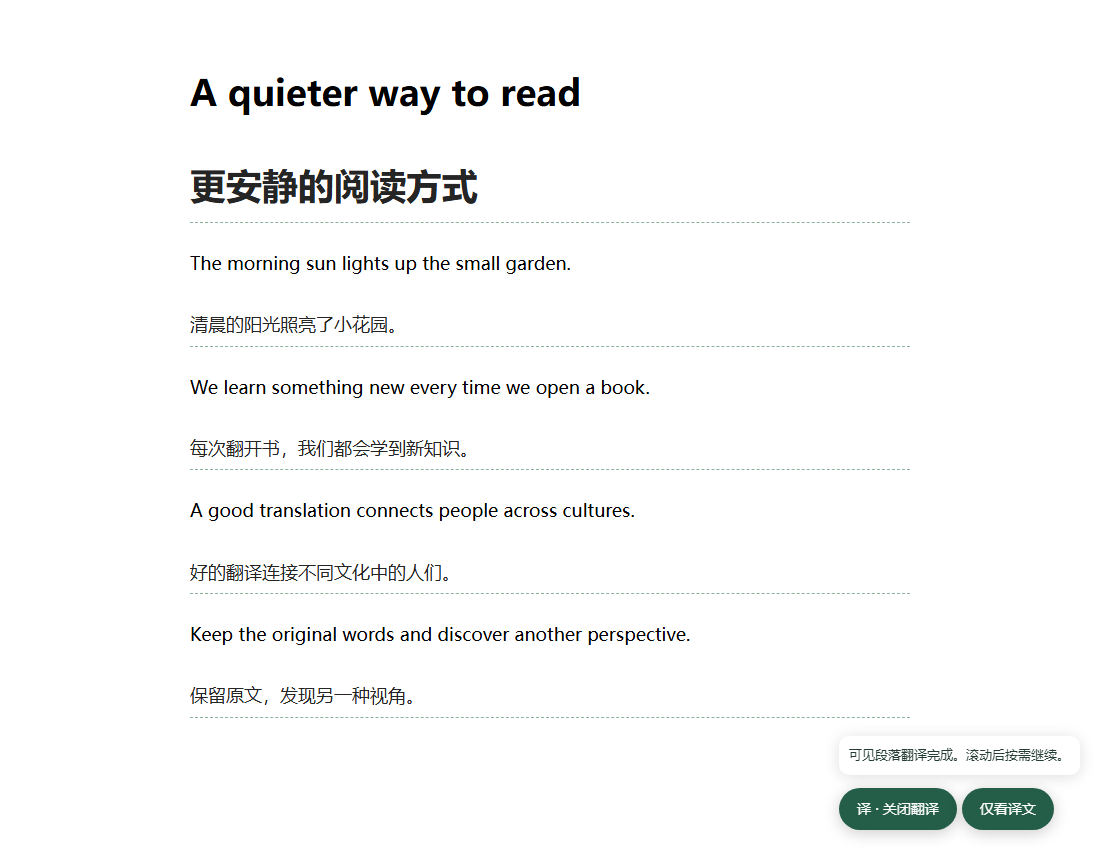
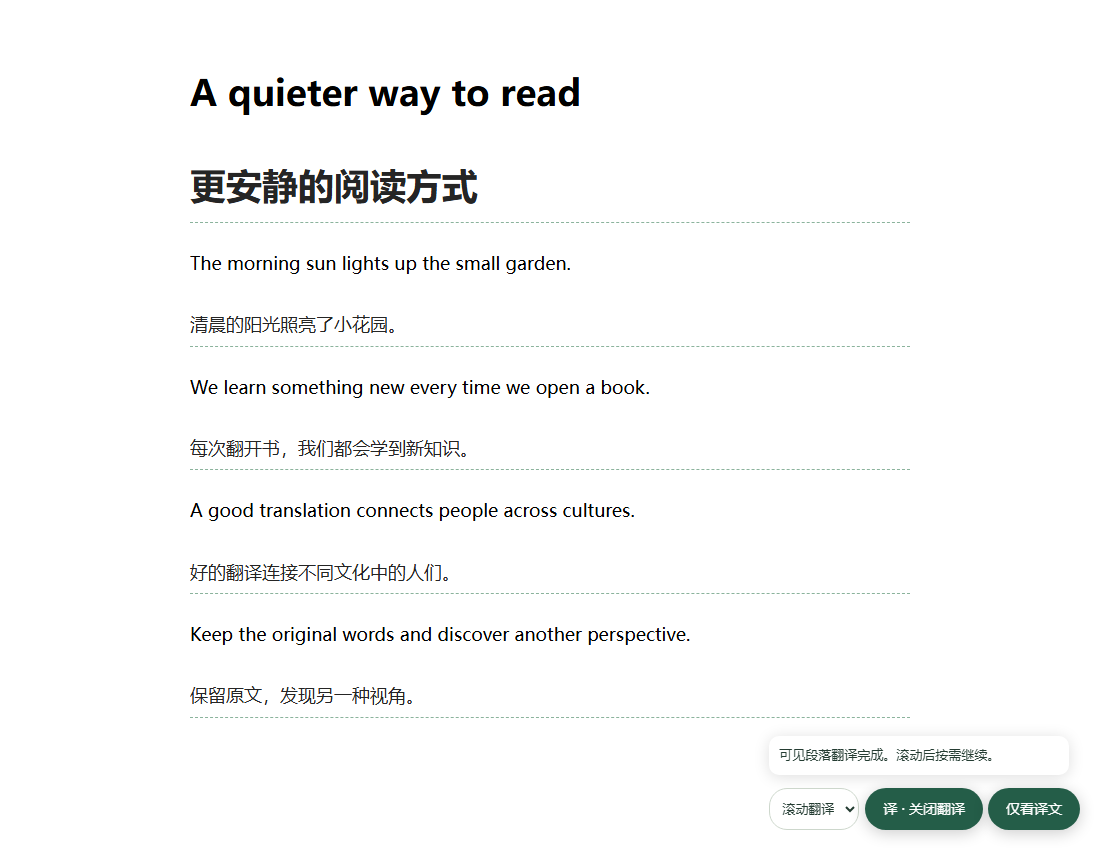
feat: choose scrolling or whole-page translation in v0.2.2

Changed region(s): [[0.7109, 0.8565, 0.9891, 0.9788]]

diff --git a/tests/text.test.ts b/tests/text.test.ts
@@ -4,7 +4,7 @@ import { candidates, chunks, TextTranslator } from '../lib/text-dom';
 import { translateText } from '../lib/text-api';
 import { hideOriginal } from '../lib/text-view';
 const settings={baseUrl:'https://openrouter.ai/api/v1',apiKey:'mock-key',targetLang:'简体中文',textModel:'test',visionModel:'test'};
-afterEach(()=>{vi.useRealTimers();vi.unstubAllGlobals();document.body.innerHTML='';});
+afterEach(()=>{vi.useRealTimers();vi.unstubAllGlobals();vi.restoreAllMocks();document.body.innerHTML='';});
 it('batches paragraphs into the chat completions route, deduplicates and caches',async()=>{
   const fetch=vi.fn().mockImplementation(async (_url,init)=>{
     const body=JSON.parse(init.body); const input=JSON.parse(body.messages[1].content);
@@ -45,6 +45,31 @@ it('restores list/table text nodes and event handlers after translated-only mode
   const t=document.createElement('div');t.textContent='译文';li.append(t);const reset=hideOriginal(li,t);
   expect(link.style.display).toBe('none');expect(t.style.display).toBe('');expect(li.querySelector('[data-bl-owned=source-wrapper]')).not.toBeNull();
   reset();expect(li.firstChild!.textContent).toBe('Original ');expect(link.style.display).toBe('');link.click();expect(clicked).toHaveBeenCalledTimes(1);
+});
+it('translates all loaded paragraphs without intersection events, in bounded sequential batches',async()=>{
+  vi.useFakeTimers();
+  document.body.innerHTML=Array.from({length:13},(_,i)=>`<p>Paragraph number ${i}.</p>`).join('')+'<p hidden>Do not send hidden text</p><p style="display:none">CSS hidden</p><pre><p>Do not send code</p></pre>';
+  vi.stubGlobal('IntersectionObserver',class{observe(){}unobserve(){}disconnect(){}});
+  vi.spyOn(HTMLElement.prototype,'getClientRects').mockImplementation(function(this:HTMLElement){return(this.style.display==='none'?[]:[{}]) as unknown as DOMRectList;});
+  const send=vi.fn(async(items)=>items.map((i:any)=>({id:i.id,translated:'译文：'+i.text}))),report=vi.fn();
+  const controller=new TextTranslator(send,report);controller.setScope('page');controller.start();
+  await vi.advanceTimersByTimeAsync(1200);
+  expect(send.mock.calls.map(c=>c[0].length)).toEqual([6,6,1]);expect(document.querySelectorAll('.bl-translation')).toHaveLength(13);
+  expect(report).toHaveBeenCalledWith('当前已加载页面翻译完成。');controller.stop();
+});
+it('changes scope without retranslating completed paragraphs and handles newly loaded content',async()=>{
+  vi.useFakeTimers();document.body.innerHTML='<p>First paragraph</p><p>Below the viewport</p>';
+  let intersect:IntersectionObserverCallback;
+  vi.stubGlobal('IntersectionObserver',class{constructor(cb:IntersectionObserverCallback){intersect=cb}observe(){}unobserve(){}disconnect(){}});
+  vi.spyOn(HTMLElement.prototype,'getClientRects').mockReturnValue([{}] as unknown as DOMRectList);
+  const send=vi.fn(async(items)=>items.map((i:any)=>({id:i.id,translated:'译文：'+i.text})));
+  const controller=new TextTranslator(send,()=>{});controller.start();
+  intersect!([{target:document.querySelector('p'),isIntersecting:true}] as unknown as IntersectionObserverEntry[],{} as IntersectionObserver);
+  await vi.advanceTimersByTimeAsync(300);expect(document.querySelectorAll('.bl-translation')).toHaveLength(1);
+  controller.setScope('page');await vi.advanceTimersByTimeAsync(300);expect(document.querySelectorAll('.bl-translation')).toHaveLength(2);expect(send.mock.calls[1]![0]).toEqual([{id:'0',text:'Below the viewport'}]);
+  controller.setScope('viewport');const p=document.createElement('p');p.textContent='New offscreen paragraph';document.body.append(p);
+  await vi.advanceTimersByTimeAsync(900);expect(send).toHaveBeenCalledTimes(2);
+  controller.setScope('page');await vi.advanceTimersByTimeAsync(300);expect(send).toHaveBeenCalledTimes(3);expect(document.querySelectorAll('.bl-translation')).toHaveLength(3);controller.stop();
 });
 it('rejects mismatched model IDs and does not inject model HTML',async()=>{
   vi.stubGlobal('fetch',vi.fn().mockResolvedValue({ok:true,json:async()=>({choices:[{message:{content:'[{"id":"wrong","translated":"bad"}]'}}]})}));

diff --git a/entrypoints/content.ts b/entrypoints/content.ts
@@ -3,6 +3,7 @@ import { TextTranslator } from '../lib/text-dom';
 import { installImageUI } from '../lib/image-dom';
 import type { BackgroundRequest, ApiReply } from '../lib/messages';
 import type { Bubble, Snippet } from '../lib/image-api';
+import { validTextScope, type TextScope } from '../lib/text-scope';
 import '../lib/content.css';
 export default defineContentScript({
   matches: ['http://*/*','https://*/*'], runAt:'document_idle',
@@ -24,15 +25,26 @@ export default defineContentScript({
       const result=await browser.runtime.sendMessage({type:'translateText',items});
       if (!result.ok) throw new Error(result.error); return result.data;
     },message=>{showStatus(message); button.textContent=translator.enabled?'译 · 关闭翻译':'译 · 开启翻译';mode.hidden=!translator.enabled;mode.textContent=translator.onlyTranslated?'显示双语':'仅看译文';});
-    button.addEventListener('click',()=>translator.toggle());
+    const scopeSelect=document.createElement('select');
+    scopeSelect.id='text-scope';scopeSelect.setAttribute('aria-label','网页翻译范围');
+    scopeSelect.innerHTML='<option value="viewport">滚动翻译</option><option value="page">整页翻译</option>';
+    scopeSelect.style.cssText='font:13px system-ui;padding:11px 8px;margin-right:6px;border:1px solid #cdd7cc;border-radius:18px;background:white;color:#243c32;cursor:pointer';
+    root.insertBefore(scopeSelect,button);
     mode.addEventListener('click',()=>translator.toggleMode());
     const send=async<T>(message:BackgroundRequest):Promise<T>=>{const reply:ApiReply<T>=await browser.runtime.sendMessage(message);if(!reply.ok)throw new Error(reply.error);return reply.data;};
+    const applyScope=(scope:TextScope)=>{translator.setScope(scope);scopeSelect.value=scope;};
+    scopeSelect.disabled=true;
+    const scopeReady=send<TextScope>({type:'getTextScope'}).then(applyScope).catch(e=>showStatus(e.message)).finally(()=>{scopeSelect.disabled=false;});
+    button.addEventListener('click',()=>{void scopeReady.then(()=>translator.toggle());});
+    scopeSelect.addEventListener('change',async()=>{
+      try {const scope=scopeSelect.value as TextScope;await send({type:'setTextScope',scope});applyScope(scope);}catch(e){scopeSelect.value=translator.scope;showStatus(e instanceof Error?e.message:'翻译范围保存失败。');}
+    });
     const images=installImageUI({
       fetchImage:(url,layout)=>send<string>({type:'fetchImage',url,layout}),
       full:dataUrl=>send<Bubble[]>({type:'translateImage',dataUrl}),
       snippet:dataUrl=>send<Snippet>({type:'translateSnippet',dataUrl})
     },showStatus);
-    const listener=(message: {type:string;url?:string})=>{if(message.type==='toggle') translator.toggle();if(message.type==='textMode')translator.toggleMode();if(message.type==='contextImage')images.contextTranslate(message.url); if(message.type==='settingsChanged') {translator.stop();images.reset(); showStatus('设置已更新，请重新开启翻译。'); button.textContent='译 · 开启翻译';mode.hidden=true;}};
+    const listener=(message: {type:string;url?:string;scope?:unknown})=>{if(message.type==='toggle') void scopeReady.then(()=>translator.toggle());if(message.type==='textScopeChanged'&&validTextScope(message.scope))applyScope(message.scope);if(message.type==='textMode')translator.toggleMode();if(message.type==='contextImage')images.contextTranslate(message.url); if(message.type==='settingsChanged') {translator.stop();images.reset(); showStatus('设置已更新，请重新开启翻译。'); button.textContent='译 · 开启翻译';mode.hidden=true;}};
     browser.runtime.onMessage.addListener(listener);
     ctx.onInvalidated(()=>{translator.stop();images.destroy();clearTimeout(statusTimer);host.remove();browser.runtime.onMessage.removeListener(listener);});
   }

diff --git a/lib/text-dom.ts b/lib/text-dom.ts
@@ -1,5 +1,6 @@
 import type { TextItem, TextResult } from './text-api';
 import { hideOriginal } from './text-view';
+import type { TextScope } from './text-scope';
 const SELECTOR = 'p,h1,h2,h3,h4,h5,h6,li,blockquote,figcaption,td,th,article';
 const EXCLUDE = '[data-bl-owned],script,style,noscript,pre,code,textarea,input,select,button,nav,header,footer,[contenteditable]:not([contenteditable="false"]),[translate="no"],[aria-hidden="true"],[hidden]';
 export function textOf(element: HTMLElement): string { return element.textContent?.replace(/\s+/g,' ').trim() ?? ''; }
@@ -28,6 +29,7 @@ interface RecordState { source: string; parts: string[]; translated: (string | u
 export class TextTranslator {
   enabled = false;
   onlyTranslated = false;
+  scope: TextScope = 'viewport';
   private records = new Map<HTMLElement,RecordState>();
   private visible = new Set<HTMLElement>();
   private timer?: ReturnType<typeof setTimeout>;
@@ -47,7 +49,7 @@ export class TextTranslator {
     });
   }
   start() {
-    if (this.enabled) return; this.enabled=true; this.epoch++; this.report('双语翻译已开启，只发送可见段落。');
+    if (this.enabled) return; this.enabled=true; this.epoch++; this.report(this.scope==='page'?'整页翻译已开启，将分批处理当前已加载的段落。':'滚动翻译已开启，只发送可见段落。');
     this.scan(); this.mutations.observe(document.body,{childList:true,subtree:true,characterData:true});
   }
   stop() {
@@ -56,6 +58,11 @@ export class TextTranslator {
     for (const state of this.records.values()) {state.restore?.();state.node?.remove();} this.records.clear();this.onlyTranslated=false;
   }
   toggle() { if (this.enabled) { this.stop(); this.report('双语翻译已关闭。'); } else this.start(); }
+  setScope(scope: TextScope) {
+    if (this.scope===scope) return;
+    this.scope=scope;
+    if(this.enabled){this.report(scope==='page'?'已切换整页翻译，将继续分批处理剩余段落。':'已切换滚动翻译，后续只处理可见段落。');this.schedule();}
+  }
   toggleMode(){
     if(!this.enabled)return;
     this.onlyTranslated=!this.onlyTranslated;
@@ -80,7 +87,7 @@ export class TextTranslator {
   private async flush() {
     if (!this.enabled || this.busy) return;
     const work: { el:HTMLElement; state:RecordState; part:number; id:string; text:string }[]=[]; let size=0;
-    for (const el of this.visible) {
+    for (const el of this.scope==='page'?this.records.keys():this.visible) {
       const state=this.records.get(el); if (!state || !el.isConnected || getComputedStyle(el).visibility==='hidden' || el.getClientRects().length===0) continue;
       for (let part=0;part<state.parts.length;part++) {
         const text=state.parts[part]!;
@@ -101,7 +108,10 @@ export class TextTranslator {
         w.state.translated[w.part]=translated;
         if (w.state.parts.every((_,i)=>w.state.translated[i]!==undefined)) {w.state.node=renderTranslation(w.el,w.state.translated.join(' '));if(this.onlyTranslated)w.state.restore=hideOriginal(w.el,w.state.node);}
       }
-      this.report('可见段落翻译完成。滚动后按需继续。');
+      if(this.scope==='page'){
+        const pending=[...this.records].some(([el,state])=>!state.node&&el.isConnected&&getComputedStyle(el).visibility!=='hidden'&&el.getClientRects().length>0);
+        this.report(pending?'本批段落已完成，整页翻译继续处理中。':'当前已加载页面翻译完成。');
+      }else this.report('可见段落翻译完成。滚动后按需继续。');
     } catch (e) {
       if (epoch===this.epoch) { this.stop(); this.report(e instanceof Error?e.message:'翻译失败，请重试。'); }
     } finally { this.busy=false; work.forEach(w=>w.state.inflight.delete(w.part)); this.schedule(); }

diff --git a/lib/settings-ui.ts b/lib/settings-ui.ts
@@ -1,20 +1,28 @@
 import { browser } from 'wxt/browser';
 import { getSettings, saveSettings, type Settings } from './settings';
+import { getTextScope, saveTextScope } from './text-scope';
 import './ui.css';
 export async function mountSettings(popup = false) {
   const app = document.querySelector<HTMLElement>('#app')!;
   app.innerHTML = `<header><span class="mark">译</span><div><h1>双语轻译</h1><p>原文在上，理解在旁。</p></div></header>
     ${popup ? '<button id="toggle" class="primary" type="button">切换当前网页翻译 · Alt+Shift+T</button>' : ''}
+    <label>网页翻译范围（自动保存）<select id="text-scope" disabled><option value="viewport">滚动翻译 · 只翻译可见段落</option><option value="page">整页翻译 · 分批翻译所有段落</option></select></label>
+    <p>整页模式处理当前已加载的正文，无需滚动，可能增加用量。</p>
     <form><label>API Endpoint<input name="baseUrl" type="url" required></label>
     <label>API Key<input name="apiKey" type="password" autocomplete="off" placeholder="仅保存在本机"></label>
     <label>目标语言<select name="targetLang"><option>简体中文</option><option>繁體中文</option><option>English</option><option>日本語</option><option>한국어</option><option>Français</option><option>Deutsch</option><option>Español</option></select></label>
     <label>文本模型<input name="textModel" list="text-models" required></label><datalist id="text-models"></datalist>
     <label>图片 / 漫画模型<input name="visionModel" list="image-models" required></label><datalist id="image-models"></datalist>
     <div class="actions"><button class="primary" type="submit">保存设置</button><button id="models" type="button">连接并查询模型</button></div></form>
-    <p id="status" role="status" aria-live="polite"></p><footer>只翻译可见段落；图片需手动点击。内容会发送至您设置的 API。密钥保存在本机，不同步。每次调用可能计费。</footer>`;
+    <p id="status" role="status" aria-live="polite"></p><footer>按所选范围翻译网页；图片需手动点击。内容会发送至您设置的 API。密钥保存在本机，不同步。每次调用可能计费。</footer>`;
   const form = app.querySelector('form')!;
   const status = app.querySelector<HTMLElement>('#status')!;
   const report = (e: unknown) => { status.textContent = e instanceof Error ? e.message : String(e); };
+  const scopeSelect=app.querySelector<HTMLSelectElement>('#text-scope')!;
+  try {scopeSelect.value=await getTextScope();} catch(e){report(e);} finally {scopeSelect.disabled=false;}
+  scopeSelect.addEventListener('change',async()=>{
+    try {await saveTextScope(scopeSelect.value);report('翻译范围已保存，已开启的网页立即生效。');}catch(e){report(e);}
+  });
   form.inert = true;
   try {
     const settings = await getSettings();

diff --git a/entrypoints/background.ts b/entrypoints/background.ts
@@ -5,6 +5,7 @@ import { translateText } from '../lib/text-api';
 import { translateImage, translateSnippet } from '../lib/image-api';
 import { prepareRemoteImage } from '../lib/image-download';
 import { ensureImageAccess } from '../lib/image-access';
+import { getTextScope, saveTextScope } from '../lib/text-scope';
 export default defineBackground(() => {
   // Chromium can prevent content scripts from reading local storage directly.
   browser.storage.local.setAccessLevel?.({ accessLevel: 'TRUSTED_CONTEXTS' }).catch(() => {});
@@ -16,13 +17,19 @@ export default defineBackground(() => {
     if(tab?.id) await browser.tabs.sendMessage(tab.id,{type:'toggle'}).catch(()=>{});
   });
   browser.storage.onChanged.addListener(async (changes,area)=>{
-    if(area!=='local' || !changes.settings) return;
-    for(const tab of await browser.tabs.query({})) if(tab.id) void browser.tabs.sendMessage(tab.id,{type:'settingsChanged'}).catch(()=>{});
+    if(area!=='local' || (!changes.settings&&!changes.textScope)) return;
+    const scope=changes.textScope?await getTextScope():undefined;
+    for(const tab of await browser.tabs.query({})) if(tab.id) {
+      if(changes.settings) void browser.tabs.sendMessage(tab.id,{type:'settingsChanged'}).catch(()=>{});
+      if(scope) void browser.tabs.sendMessage(tab.id,{type:'textScopeChanged',scope}).catch(()=>{});
+    }
   });
   browser.runtime.onMessage.addListener((message, sender, respond) => {
     if (sender.id !== browser.runtime.id) return;
     (async () => {
       if (message?.type === 'models' && sender.url?.startsWith(browser.runtime.getURL(''))) return listModels(await getSettings());
+      if (message?.type === 'getTextScope' && sender.tab) return getTextScope();
+      if (message?.type === 'setTextScope' && sender.tab) return saveTextScope(message.scope);
       if (message?.type === 'translateText' && sender.tab) return translateText(await getSettings(),message.items);
       if (message?.type === 'fetchImage' && sender.tab) {
         await ensureImageAccess(message.url);

diff --git a/tests/text-scope.test.ts b/tests/text-scope.test.ts
@@ -1,0 +1,15 @@
+import { it, expect, vi, beforeEach } from 'vitest';
+const storage=vi.hoisted(()=>({get:vi.fn(),set:vi.fn().mockResolvedValue(undefined)}));
+vi.mock('wxt/browser',()=>({browser:{storage:{local:storage}}}));
+import { getTextScope, saveTextScope } from '../lib/text-scope';
+beforeEach(()=>{storage.get.mockReset();storage.set.mockClear();});
+it('defaults existing installs to scrolling and restores page preference without reading API settings',async()=>{
+  storage.get.mockResolvedValue({});expect(await getTextScope()).toBe('viewport');
+  storage.get.mockResolvedValue({textScope:'page'});expect(await getTextScope()).toBe('page');
+  storage.get.mockResolvedValue({textScope:'invalid'});expect(await getTextScope()).toBe('viewport');
+  expect(storage.get).toHaveBeenCalledWith('textScope');
+});
+it('writes only a valid scope without overwriting saved credentials',async()=>{
+  await expect(saveTextScope('invalid')).rejects.toThrow('无效');expect(storage.set).not.toHaveBeenCalled();
+  await saveTextScope('page');expect(storage.set).toHaveBeenCalledWith({textScope:'page'});
+});

diff --git a/tests/settings-ui.test.ts b/tests/settings-ui.test.ts
@@ -12,4 +12,6 @@ it('saves the actual form and populates vision model choices',async()=>{
   (document.querySelector('#models') as HTMLButtonElement).click();
   await vi.waitFor(()=>expect(document.querySelector('#image-models option')?.getAttribute('value')).toBe('cheap-vision'));
   expect(document.querySelector('#status')?.textContent).toContain('连接成功');
+  const scope=document.querySelector<HTMLSelectElement>('#text-scope')!;expect(scope.value).toBe('viewport');scope.value='page';scope.dispatchEvent(new Event('change'));
+  await vi.waitFor(()=>expect(api.set).toHaveBeenCalledWith({textScope:'page'}));
 });

diff --git a/lib/text-scope.ts b/lib/text-scope.ts
@@ -1,0 +1,11 @@
+import { browser } from 'wxt/browser';
+export type TextScope = 'viewport' | 'page';
+export function validTextScope(value: unknown): value is TextScope { return value === 'viewport' || value === 'page'; }
+export async function getTextScope(): Promise<TextScope> {
+  const { textScope } = await browser.storage.local.get('textScope');
+  return validTextScope(textScope) ? textScope : 'viewport';
+}
+export async function saveTextScope(textScope: unknown): Promise<void> {
+  if (!validTextScope(textScope)) throw new Error('翻译范围无效。');
+  await browser.storage.local.set({ textScope });
+}

diff --git a/lib/messages.ts b/lib/messages.ts
@@ -1,5 +1,7 @@
 import type { ImageLayout } from './image-geometry';
 import type { TextItem } from './text-api';
+import type { TextScope } from './text-scope';
 export type BackgroundRequest = {type:'models'} | {type:'translateText';items:TextItem[]} |
-  {type:'translateImage'|'translateSnippet';dataUrl:string} | {type:'fetchImage';url:string;layout:ImageLayout};
+  {type:'translateImage'|'translateSnippet';dataUrl:string} | {type:'fetchImage';url:string;layout:ImageLayout} |
+  {type:'getTextScope'} | {type:'setTextScope';scope:TextScope};
 export type ApiReply<T> = {ok:true;data:T} | {ok:false;error:string};
